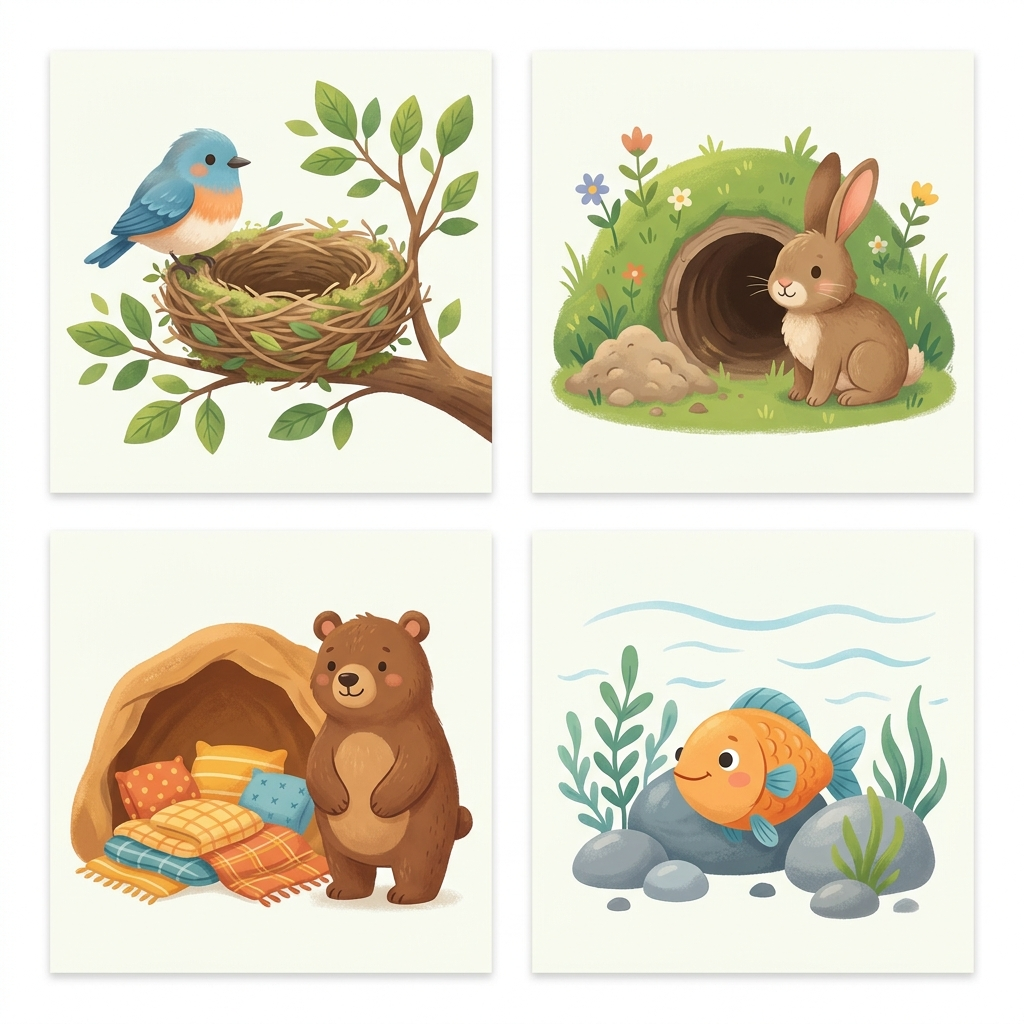
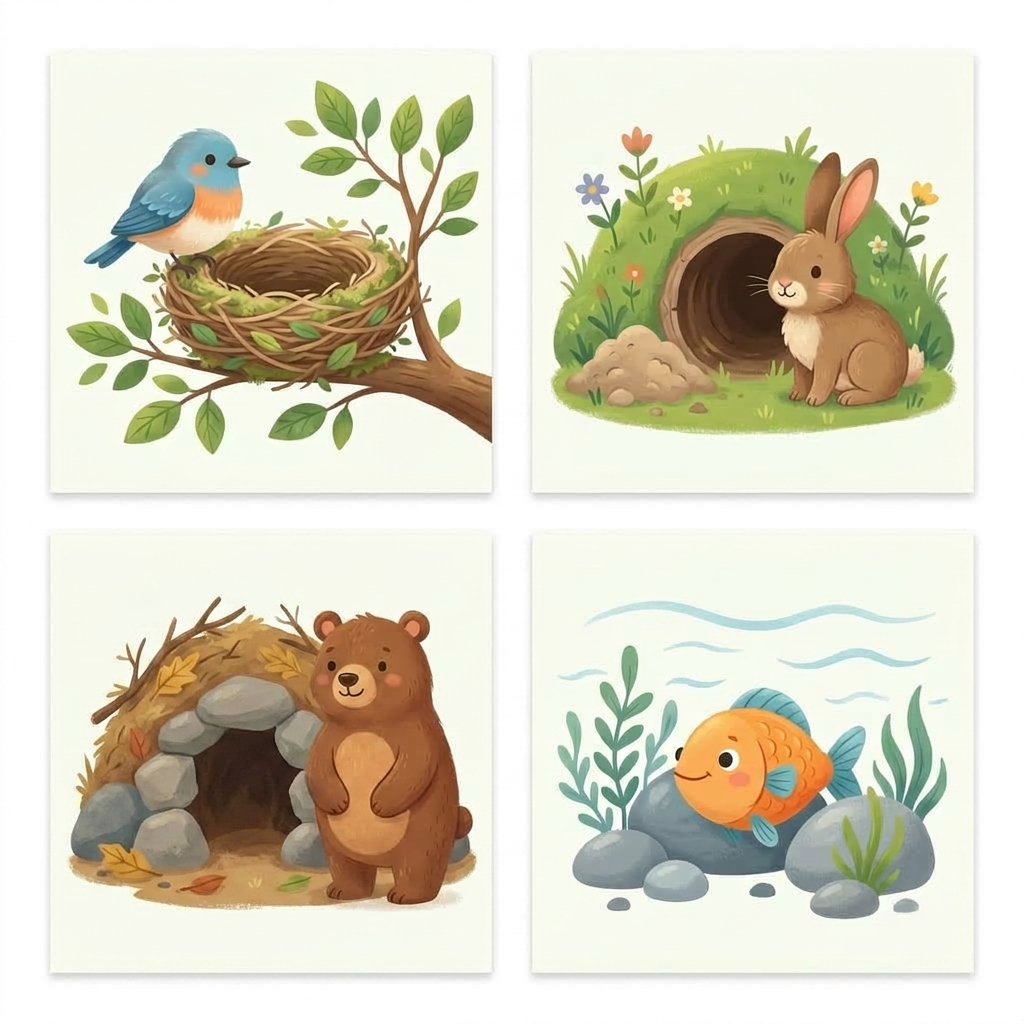
Make bear den less cartoony

Changed region(s): [[0.0625, 0.5938, 0.4062, 0.9062], [0.4375, 0.8125, 0.4688, 0.875], [0.375, 0.3125, 0.4062, 0.3438]]

diff --git a/lesson-plans/k-ls1-unit3-lesson5-building-a-shelter.html b/lesson-plans/k-ls1-unit3-lesson5-building-a-shelter.html
@@ -413,8 +413,8 @@
       <li>5–10 small sticks or twigs (pencil-length), collected from outdoors. <em>No yard? Use toothpicks, wooden coffee stirrers, or pipe cleaners instead!</em></li>
       <li>Yarn or string</li>
       <li>Cotton balls</li>
-      <li>Towels and blankets</li>
-      <li>Pillows</li>
+      <li>Towels or felt pieces</li>
+      <li>Leaves, paper crumples, or brown craft paper</li>
       <li>Tape and scissors</li>
       <li>A bowl or bin (for fish option)</li>
       <li>A spray bottle with water (for shelter testing!)</li>
@@ -453,7 +453,7 @@
       <div class="shelter-card bear">
         <div class="shelter-scene">🐻 🪵 ⛰</div>
         <div class="shelter-title">Bear → Den</div>
-        <div class="shelter-copy">Stack blankets and pillows into a cozy cave shape.</div>
+        <div class="shelter-copy">Use a box, brown paper, and a few sticks to make a den that feels dark and protected.</div>
         <span class="shelter-note">Warm + dark</span>
       </div>
       <div class="shelter-card fish">
@@ -532,7 +532,7 @@
   <h2>👩🏫 Parent/Teacher Notes</h2>
   <div class="teacher-note">
     <ul>
-      <li><strong>All household materials — nothing to buy.</strong> Sticks and twigs from the yard are perfect for bird nests. Raid the blanket closet for bear dens!</li>
+      <li><strong>All household materials — nothing to buy.</strong> Sticks and twigs from the yard are perfect for bird nests. Boxes, brown paper, and leaves work well for bear dens.</li>
       <li><strong>This is an engineering activity as well as science.</strong> When students test their shelters and find they fail, encourage them to iterate and improve — that's real science and engineering thinking. Failure is part of the process!</li>
       <li><strong>Connect back to humans:</strong> Our houses are our "shelters" too — what does our house protect us from? Rain, wind, cold, danger? Help kids see that humans and animals have the same survival needs.</li>
       <li><strong>Discuss different real animal shelters:</strong> birds' nests, beaver dams, rabbit burrows, spider webs, termite mounds, prairie dog towns. Each one is perfectly designed for that animal's needs.</li>
